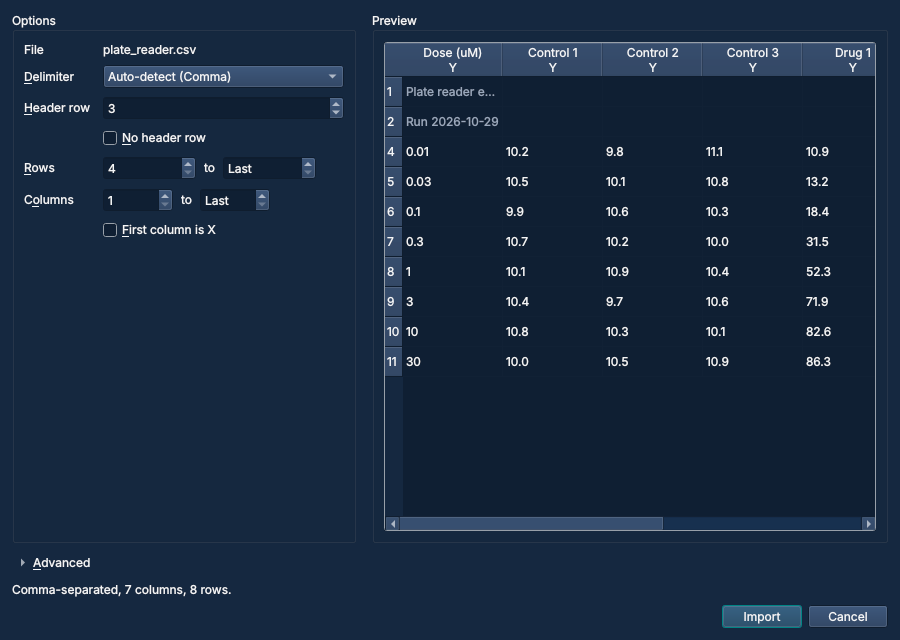
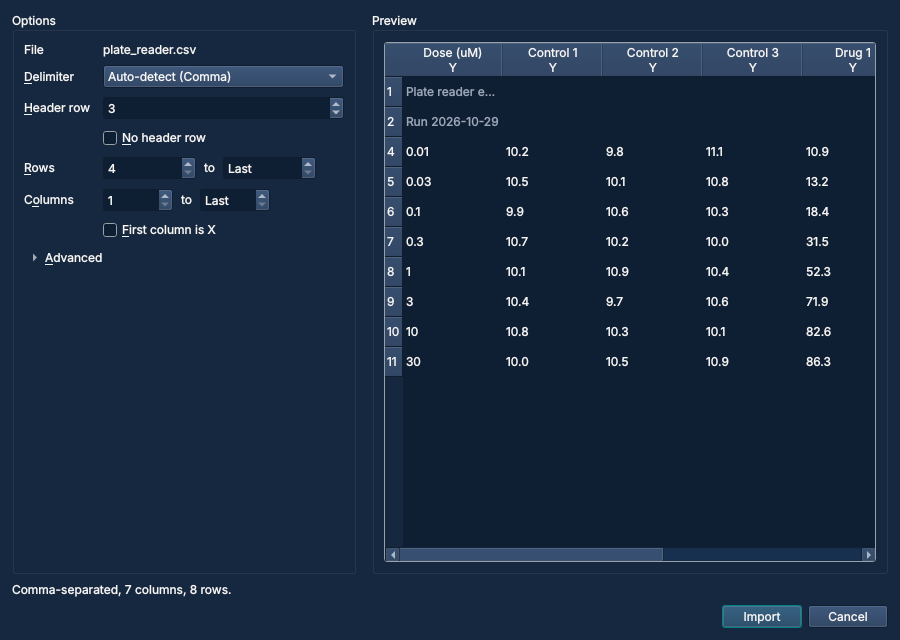
Import: Advanced at the bottom of the options panel
DESIGN.md now puts the Advanced section at the bottom of the options panel it
extends, allows a 3 : 2 split for a wide list or preview, and marks the 820 x 540
minimum as still to be confirmed for Analyze and Format. The Analyze mockup follows.

Claude-Session: https://claude.ai/code/session_01CFpmBX1qGVBZsHaRmBtHQf

Changed region(s): [[0.4044, 0.7812, 0.9956, 0.875], [0.0311, 0.375, 0.1244, 0.4062], [0.0311, 0.875, 0.0933, 0.9062]]

diff --git a/docs/mockups/index.html b/docs/mockups/index.html
@@ -196,16 +196,16 @@
                 <span><u>P</u>ost-hoc test</span><span class="field combo">Dunnett (vs. control)</span>
                 <span>Cont<u>r</u>ol group</span><span class="field combo">Control</span>
               </div>
+              <span class="m" style="left:-21px;top:118px">5</span>
+              <div class="advanced"><span><u>A</u>dvanced</span></div>
             </div>
-            <span class="m" style="left:448px;top:366px">4</span>
+            <span class="m" style="left:448px;top:392px">4</span>
             <div class="group grow">
               <div class="legend">What will run</div>
               <div class="summary grow">Ordinary one-way ANOVA on 4 groups (Control, Drug A, Drug B, Drug C), then Dunnett's multiple comparisons test of each group against Control.</div>
             </div>
           </div>
         </div>
-        <span class="m" style="left:-26px;top:553px">5</span>
-        <div class="advanced"><span><u>A</u>dvanced</span></div>
         <span class="m" style="left:-26px;top:580px">6</span>
         <div class="feedback warn">Drug C has 5 values and the others 6; the test still works with unequal groups.</div>
         <div class="buttonrow">
@@ -220,7 +220,7 @@
         <li><b>Inputs on the left:</b> the same column tree and pairing toggle as Calculate, so paired tests reuse the A/B pairing.</li>
         <li><b>Analysis and options on the right.</b> The analysis list shows only what <code>can_run</code> allows, recently used ones are marked, and the options panel takes the height of the selected analysis's page.</li>
         <li><b>Result:</b> one plain sentence that says what will run, with exact method names.</li>
-        <li><b>Advanced</b> is collapsed, e.g. confidence level. One click on Run covers the common case.</li>
+        <li><b>Advanced</b> is collapsed at the bottom of the options panel, e.g. confidence level. One click on Run covers the common case.</li>
         <li><b>Feedback line:</b> a warning (icon + normal text). When Run is disabled, the reason appears here, e.g. “Tick at least two groups.”</li>
       </ol>
       <p>Button order follows the platform; shown here as on Windows and KDE.</p>

diff --git a/src/curvis/ui/import_dialog.py b/src/curvis/ui/import_dialog.py
@@ -201,13 +201,13 @@ class ImportDialog(QDialog):
         options = QGroupBox("Options", self)
         options_layout = QVBoxLayout(options)
         options_layout.addLayout(form)
+        options_layout.addWidget(self.advanced_section)
         options_layout.addStretch(1)
         left.addWidget(options, 1)
         preview = QGroupBox("Preview", self)
         preview_layout = QVBoxLayout(preview)
         preview_layout.addWidget(self.table)
         right.addWidget(preview, 1)
-        self.skeleton.body.addWidget(self.advanced_section)
         self.skeleton.set_problem("Reading the file…")
         set_tab_order(
             [
@@ -219,9 +219,9 @@ class ImportDialog(QDialog):
                 self.first_column,
                 self.last_column,
                 self.first_column_is_x,
-                self.table,
                 self.advanced_toggle,
                 self.decimal_comma,
+                self.table,
             ]
         )
         self.delimiter.setFocus()

diff --git a/docs/DESIGN.md b/docs/DESIGN.md
@@ -18,10 +18,10 @@ Format, Import).
 │ One sentence on what the selected kind does.       ← secondary text   │
 │ ┌ Inputs ──────────────┐ ┌ Options ───────────────────────────────┐ │
 │ │ what to work on      │ │ options of the selected kind (stacked) │ │
-│ │ (columns, file …)    │ ├ Result ────────────────────────────────┤ │
+│ │ (columns, file …)    │ │ ▸ Advanced         ← collapsed section │ │
+│ │                      │ ├ Result ────────────────────────────────┤ │
 │ │                      │ │ formula, preview, live graph …         │ │
 │ └──────────────────────┘ └────────────────────────────────────────┘ │
-│ ▸ Advanced                                 ← collapsed section       │
 │ ⚠ Feedback line: why OK is disabled, or a warning                    │
 │ Secondary settings (suffix, placement)          [Calculate] [Cancel] │
 └──────────────────────────────────────────────────────────────────────┘
@@ -31,13 +31,15 @@ Format, Import).
   most used kind, or the one that best fits the data. A one-line description of the selected
   kind sits under the tabs.
 - **Inputs** go in the left column; **options** and **result** go in the right column. Both
-  columns get equal stretch. Options sit at the top of the right column at the height of their
+  columns get equal stretch, unless one holds a wide list or preview, which then gets 3 : 2
+  (Import's preview, Bulk rename's list of names). Options sit at the top of the right column at the height of their
   current page. The result takes the rest of the height. When a kind has nothing to pick
   (Format › Graph), its options move into the left column and the result stays on the right.
 - **Secondary settings** (naming, placement, “append at the end”) go at the left of the button
   row. They never go in the main columns.
-- **Advanced options** go in a collapsed `Advanced` section under the columns. It is closed by
-  default and stays closed every time the dialog opens. The common case never needs it. Use
+- **Advanced options** go in a collapsed `Advanced` section at the bottom of the options panel
+  they extend (in Import, the options on the left). It is closed by default and stays closed
+  every time the dialog opens. The common case never needs it. Use
   `CollapsibleSection`.
 
 ### The simple dialog
@@ -65,7 +67,7 @@ Inner layouts (pages, rows) have zero margins; only the dialog has a margin.
 
 | Dialog | Default size | Minimum size |
 | --- | --- | --- |
-| Workbench (Calculate, Analyze, Format, Import) | 900 × 640 | 820 × 540 |
+| Workbench (Calculate, Analyze, Format, Import) | 900 × 640 | 820 × 540 (to be confirmed for Analyze and Format in steps 2.2 and 2.6) |
 | Bulk rename | 720 × 520 | 600 × 420 |
 | Constants | 560 × 420 | 460 × 340 |
 | Simple dialog (Settings, constant editor) | its size hint | its size hint, at least 360 wide |
@@ -163,8 +165,8 @@ at least **4.5 : 1**, and `tests/ui/test_theme.py` checks it.
 
 ## 6. Keyboard
 
-- **Tab order is reading order**: choice tabs → left column (top to bottom) → right column →
-  Advanced → secondary settings → buttons. `set_tab_order()` sets it from a list.
+- **Tab order is reading order**: choice tabs → left column (top to bottom) → right column
+  (top to bottom, Advanced at the end of its options panel) → secondary settings → buttons. `set_tab_order()` sets it from a list.
 - **First focus** goes to the field the user most likely changes first: the list of columns in
   Calculate, the Find box in Bulk rename, the delimiter in Import.
 - **Choice tabs**: Ctrl+Tab and Ctrl+Shift+Tab move to the next and previous tab (`choice_tabs()`
